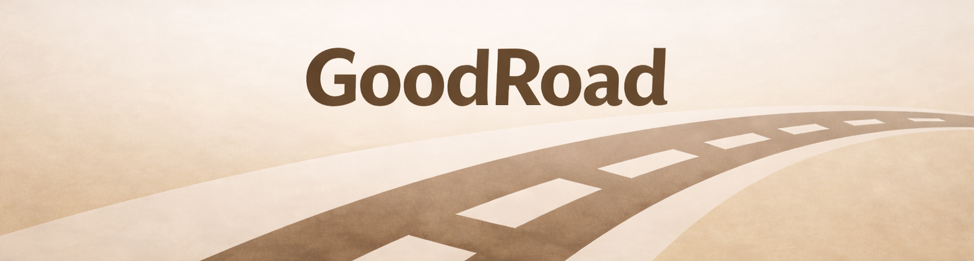
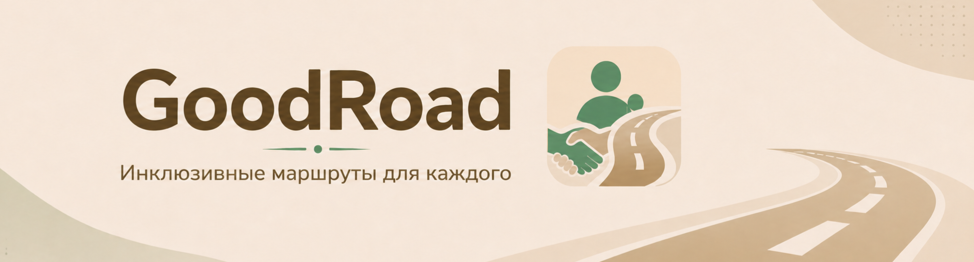
fix: preview image and some details in text

diff --git a/README.md b/README.md
@@ -2,7 +2,7 @@
   <img src="images/preview.png" alt="GoodRoad banner" width="974">
 </p>
 
-## GoodRoad (Android client)
+## GoodRoad (Android Client)
 
 **Авторы**: ```Городкова Ксения```, ```Грудцына Виктория```, ```Толстограева Виктория```
 
@@ -10,8 +10,9 @@
 
 **GoodRoad** — мобильное приложение для построения пеших инклюзивных маршрутов с учетом состояния дороги, препятствий на пути и персональных ограничений пользователя.
 
-Обычный навигатор часто показывает только самый короткий или быстрый путь, но не объясняет, насколько этот путь удобен на практике. На маршруте могут встретиться лестницы, высокие бордюры, ямы, крутые участки дороги и другие барьеры. GoodRoad решает именно эту задачу: приложение помогает заранее понять, подходит ли путь конкретному человеку, показывает проблемные места и позволяет собирать отзывы о доступности дорог и объектов.
+Обычный навигатор зачастую показывает только самый короткий или быстрый путь, но не объясняет, насколько он удобен на практике. Вместе с тем на маршруте могут встретиться лестницы, высокие бордюры, крутые участки дороги и другие барьеры. GoodRoad решает именно эту задачу: приложение помогает заранее понять, подходит ли путь конкретному человеку, показывает проблемные места и позволяет собирать отзывы о доступности дорог и объектов.
 
+Дополнительно в GoodRoad есть задания, награды за их выполнение и волонтерский модуль. Пользователи могут получать баллы за написание отзывов и помощь другим людям, обменивать их на предложения партнеров, а также создавать запросы на сопровождение и откликаться на них.
 
 ## Возможности для каждого типа пользователя 
 
@@ -19,17 +20,18 @@
 - Редактирование профиля
 - Выбор препятствий, которые нужно избегать при построении маршрута, и их тяжесть
 - Построение маршрута с учетом ограничений пользователя
-- Возможность оставить заявку на помощь в сопровождении маршрута волонтером
+- Возможность оставить заявку на сопровождение волонтера по маршруту
 - Создание, редактирование и удаление отзывов о состоянии дороги или объекта
+- Добавление фотографий к отзывам
 - Просмотр статуса модерации отзыва и начисленных за него баллов
-- Создание заявки на волонтерство 
+- Просмотр заданий, связанных с отзывами, для получения дополнительных баллов
+- Покупка наград за накопленные баллы
+- Просмотр истории операций с баллами: начисление/ списание
 - Просмотр таблицы лидеров по количеству баллов
-- Возможность совершать покупки в магазине наград за баллы
-- Просмотр истории операций с баллами: начисление/списание
-- Просмотр заданий, связанных с отзывами, для получения дополонительных баллов
 
 ### Волонтер
-- Просмотр ленты заявок на помощь и взаимодействие с ней
+- Взаимодействие с лентой заявок о помощи
+- Отклик на заявки пользователей и отмена отклика
 - Просмотр заявок, на которые волонтер откликнулся
 - Просмотр волонтерских заданий для получения дополнительных баллов
 
@@ -62,19 +64,22 @@ http://10.0.2.2:8080/
 | Асинхронность | Kotlin Coroutines | Выполнение сетевых и фоновых операций |
 | Сеть | Retrofit, OkHttp | Работа с REST API |
 | JSON | Gson Converter | Сериализация и десериализация DTO |
+| Карты | MapLibre | Отображение карты и маршрутов |
+| Геолокация | Google Play Services Location | Получение текущего местоположения пользователя |
 | Изображения | Coil | Загрузка и отображение изображений |
-|Аутентификация | JWT, OkHttp Interceptor, OkHttp Authenticator | Добавление access token в запросы и автоматическое обновление токенов
+|Аутентификация | JWT, OkHttp Interceptor, OkHttp Authenticator | Добавление access token в запросы и автоматическое обновление токенов |
+| Хранение токенов | EncryptedSharedPreferences | Локальное защищенное хранение access и refresh token |
 
 ## Архитектура клиента
 
 ### Слои клиентской архитектуры
 
-| Слой  | Назначение                                                                                         |
-|----|----------------------------------------------------------------------------------------------------|
-| data  | Работа с сетевыми запросами, работа с препятствиями, маршрутами и локацией                         |
-| domain/model | Модели предметной области приложения: препятствия, геолокации, места и связанные данные            |
-| ui | Основные элементы интерфейса, цветовая гамма                                                       |
-| modules | Работа с DTO, репозиториями, cостояние экранов, обработка действий пользователя, связь UI и данных |
+| Слой  | Назначение                                                                                          |
+|----|-----------------------------------------------------------------------------------------------------|
+| data  | Работа с сетевыми запросами, работа с препятствиями, маршрутами и локацией                          |
+| domain/model | Модели предметной области приложения: координаты, препятствия, геолокации, места и связанные данные |
+| ui | Общие UI-компоненты, элементы форм, обработка ошибок, карта и цветовая гамма                        |
+| modules | Работа с DTO, репозиториями, cостояние экранов, обработка действий пользователя, связь UI и данных  |
 
 ### Структура проекта
 
@@ -98,6 +103,7 @@ app/src/main/java/com/example/goodroad/
     ├── maps/
     ├── moderationReview/
     ├── moderator/
+    ├── review/
     ├── rewards/
     ├── tasks/
     ├── user/